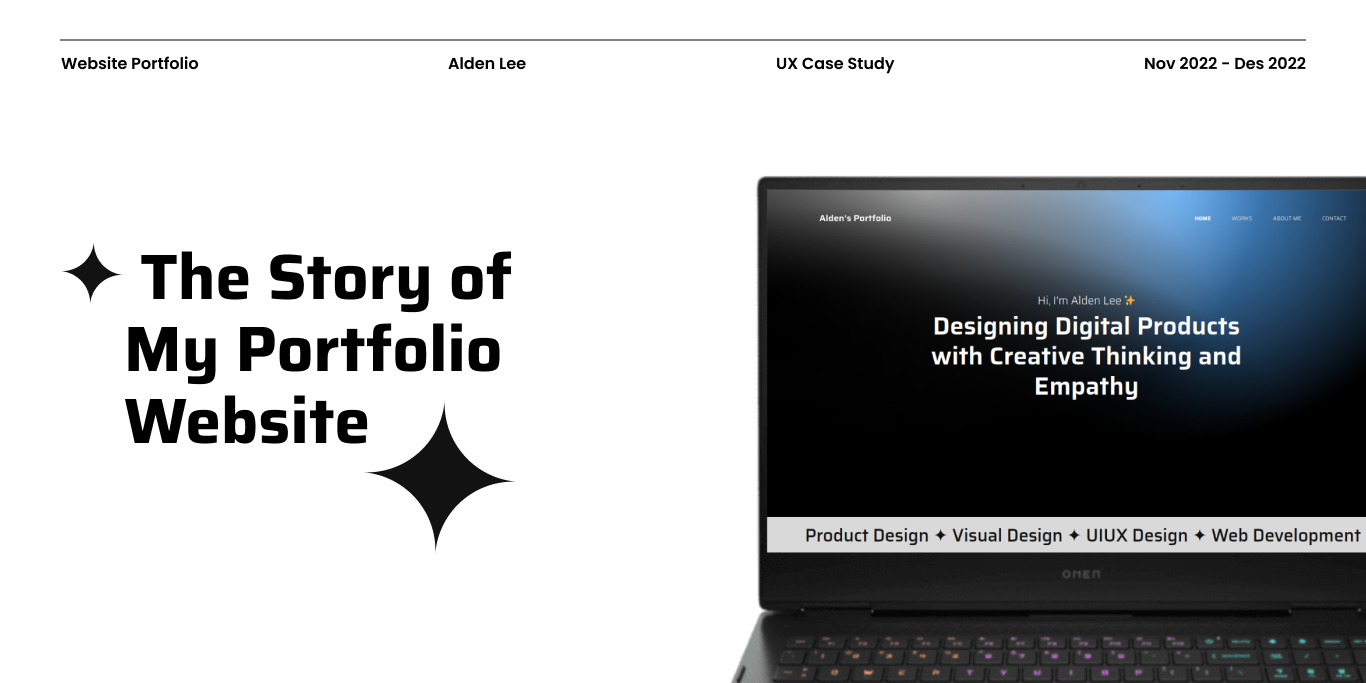
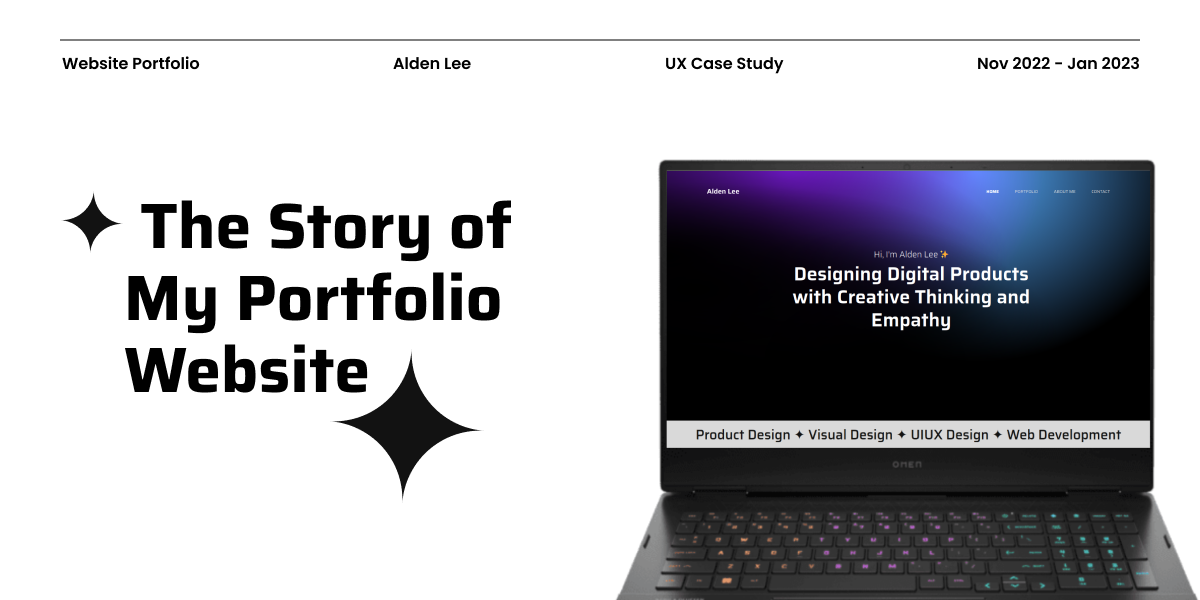
initialcommit

Changed region(s): [[0.4933, 0.24, 1.0, 1.0], [0.0308, 0.33, 0.4317, 0.81], [0.0308, 0.03, 0.9558, 0.12]]

diff --git a/css/style1.css b/css/style1.css
@@ -107,7 +107,7 @@ body
   width: 600px;
   height: 40px;
   background: linear-gradient(#121212, #121212) padding-box,
-  linear-gradient(to right, #8F1FFF 10%, #55abff 90%) border-box;  
+  linear-gradient(to right, #fdfdfd 10%, #fdfdfd 90%) border-box;  
   border: 1px solid transparent;
   border-radius: 40px;
   padding: 0px 0px 2px 0px;
@@ -116,7 +116,7 @@ body
 .button_project:hover {
   background-color: #222222;
   background: linear-gradient(#121212, #121212) padding-box,
-  linear-gradient(to right, #8F1FFF 10%, #55abff 90%) border-box;  
+  linear-gradient(to right, #fdfdfd 10%, #fdfdfd 90%) border-box;  
   border: 1px solid transparent;
 }
 .button_project a {
@@ -211,7 +211,7 @@ text-align: center;
     width: 330px;
     height: 40px;
     background: linear-gradient(#121212, #121212) padding-box,
-    linear-gradient(to right, #8F1FFF 10%, #55abff 90%) border-box;  
+    linear-gradient(to right, #fdfdfd 10%, #fdfdfd 90%) border-box;  
     border: 1px solid transparent;
     border-radius: 40px;
     padding: 0px 0px 2px 0px;

diff --git a/index.html b/index.html
@@ -100,7 +100,7 @@
 <div class="dtl_project">
 	<p>The Story of my Portfolio Website - UX Case Study</p>
 	<p class="dtl_title">Main Role : UIUX Designer</p>
-	<button class="button_project"><a href="porto3.html">Coming soon</a></button>
+	<button class="button_project"><a href="porto3.html">View Project &#10141</a></button>
 </div>
 </div>
  <!--================End Project BannerArea =================-->
